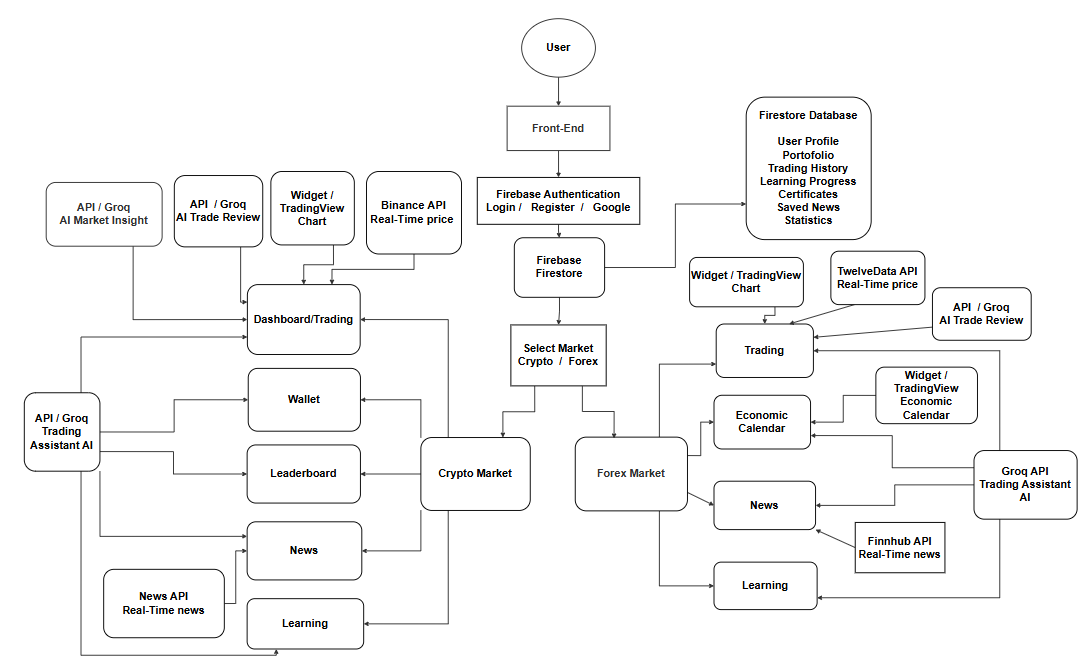
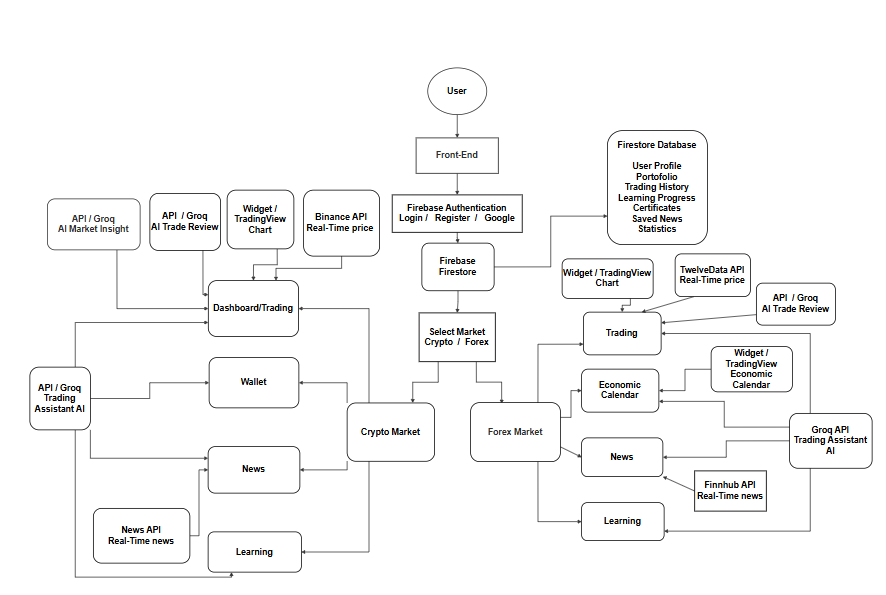
Remove leaderboard module

Changed region(s): [[0.0305, 0.0303, 1.0, 0.9983], [0.3352, 0.242, 0.4266, 0.2723]]

diff --git a/src/routes.jsx b/src/routes.jsx
@@ -5,7 +5,6 @@ import ScrollToTop from "./components/ScrollToTop";
 import Login from "./pages/Login";
 import Dashboard from "./pages/Dashboard";
 import Wallet from "./pages/Wallet";
-import Leaderboard from "./pages/Leaderboard";
 import News from "./pages/News";
 import Learning from "./pages/Learning";
 
@@ -24,7 +23,6 @@ export default function RoutesComponent() {
                 <Route path="/" element={<Login />} />
                 <Route path="/dashboard" element={<Dashboard />} />
                 <Route path="/wallet" element={<Wallet />} />
-                <Route path="/leaderboard" element={<Leaderboard />} />
                 <Route path="/news" element={<News />} />
                 <Route path="/learning" element={<Learning />} />
 

diff --git a/README.md b/README.md
@@ -29,7 +29,6 @@ The primary objective of this platform is to provide an educational environment 
 - AI Market Insight
 - Cryptocurrency Wallet
 - Portfolio Allocation
-- Leaderboard
 - Financial News
 - Economic Calendar
 - Learning Modules
@@ -125,18 +124,6 @@ Features include:
 - Quantity Owned
 - Largest Holding
 - Portfolio Allocation (%)
-
----
-
-###  Leaderboard
-
-Compare trading performance with other registered users.
-
-Statistics include:
-
-- Account Balance
-- Profit
-- Win Rate
 
 ---
 
@@ -423,9 +410,6 @@ npm run dev
 
 ## Crypto Wallet
 ![CryptoWallet](images/crypto-wallet.png)
-
-## Leaderboard
-![Leaderboard](images/leaderboard.png)
 
 ## Crypto News
 ![CryptoNews](images/crypto-news.png)
